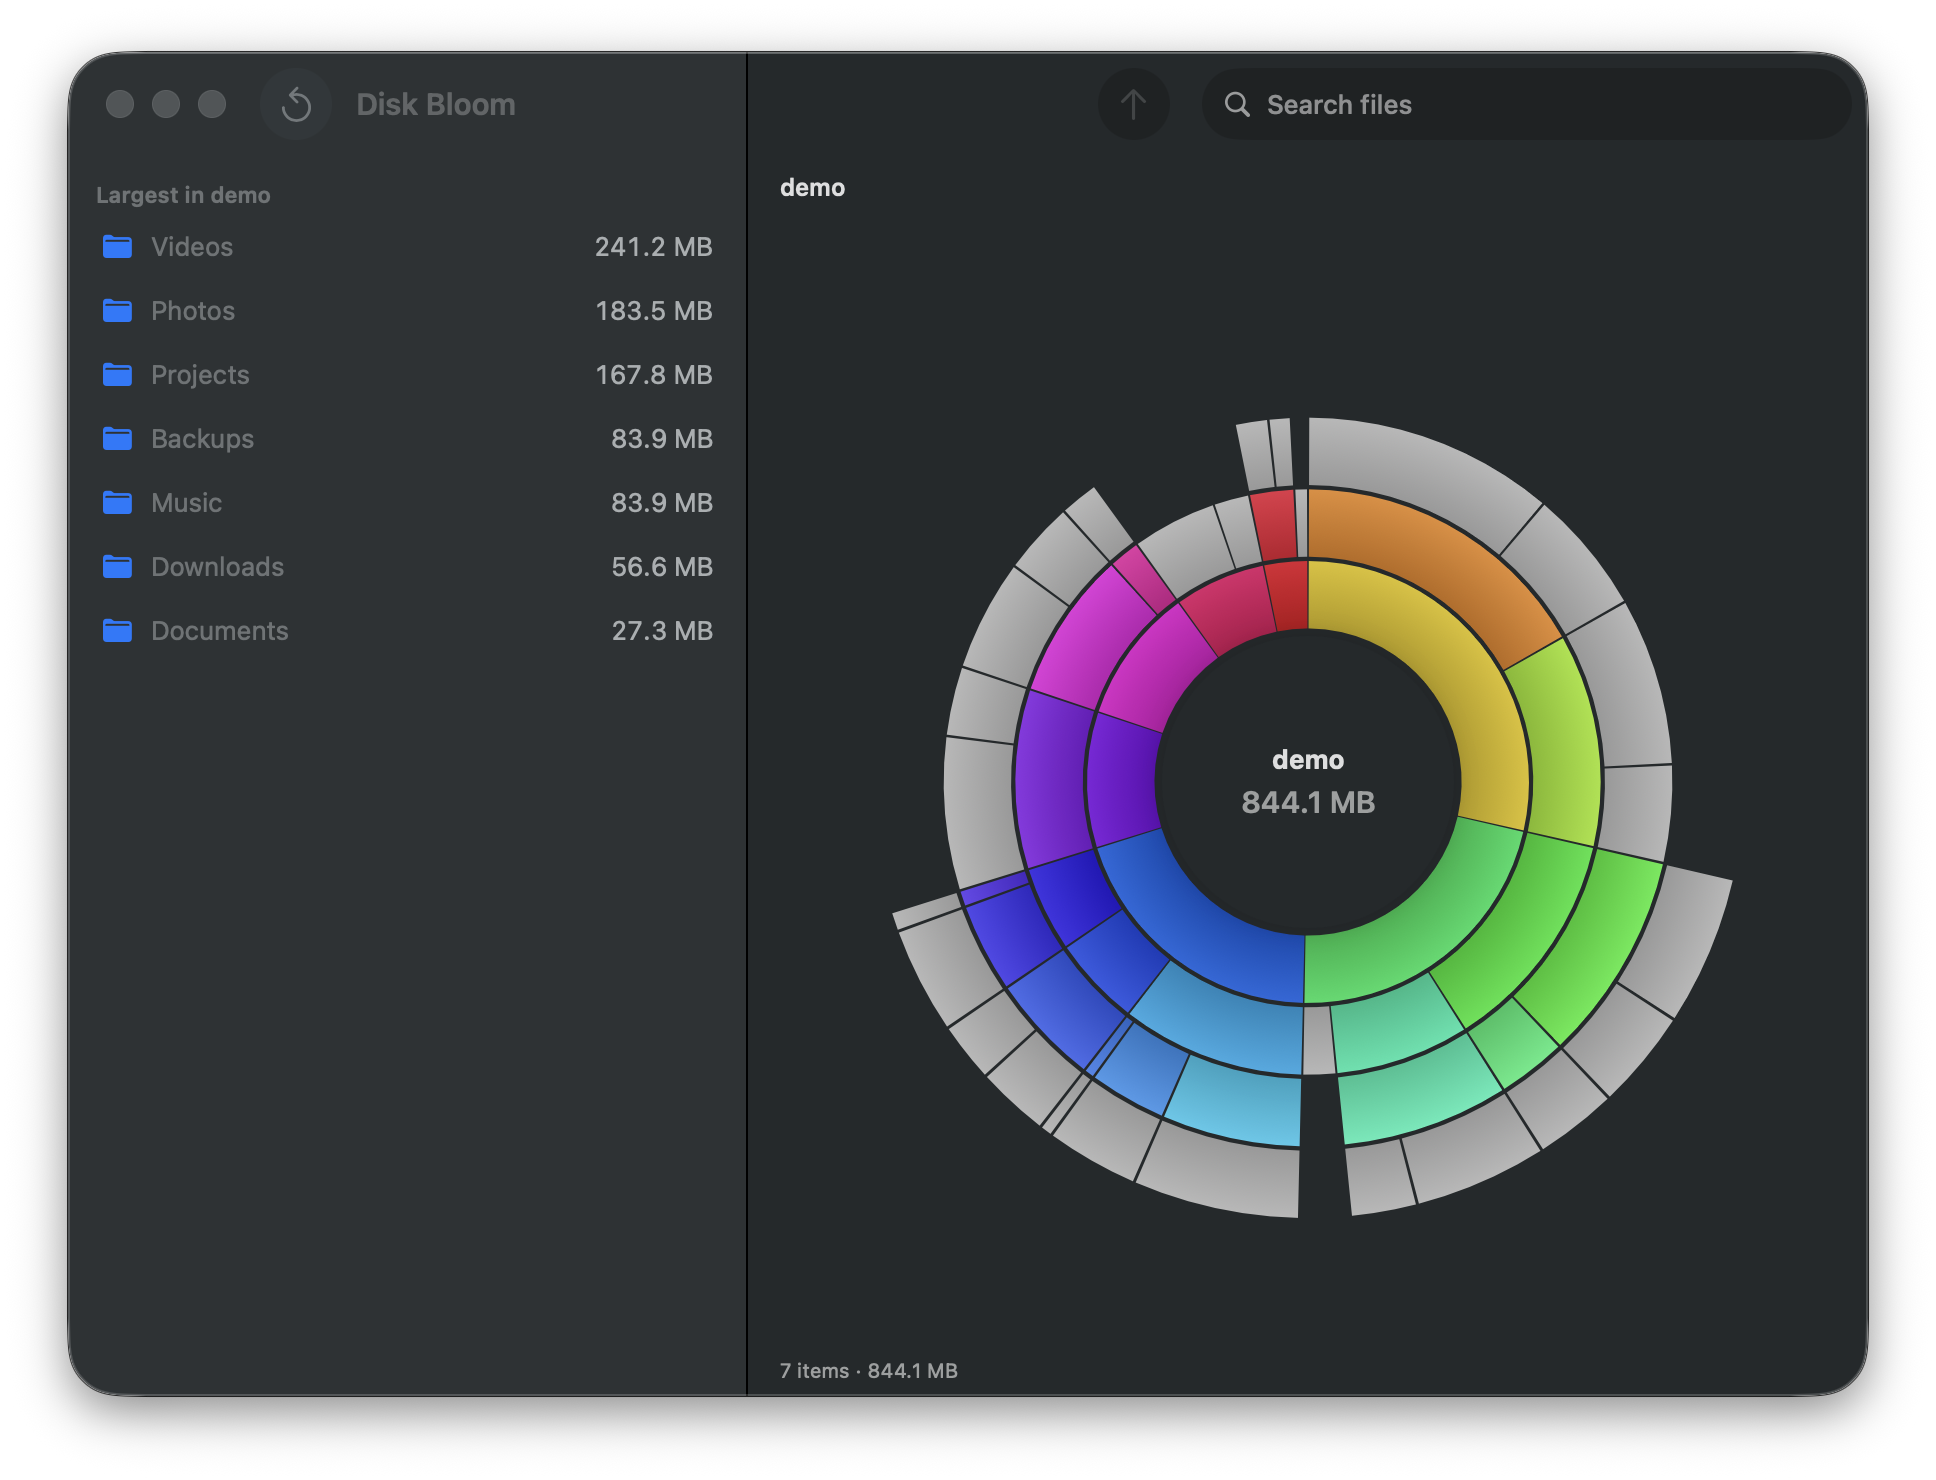
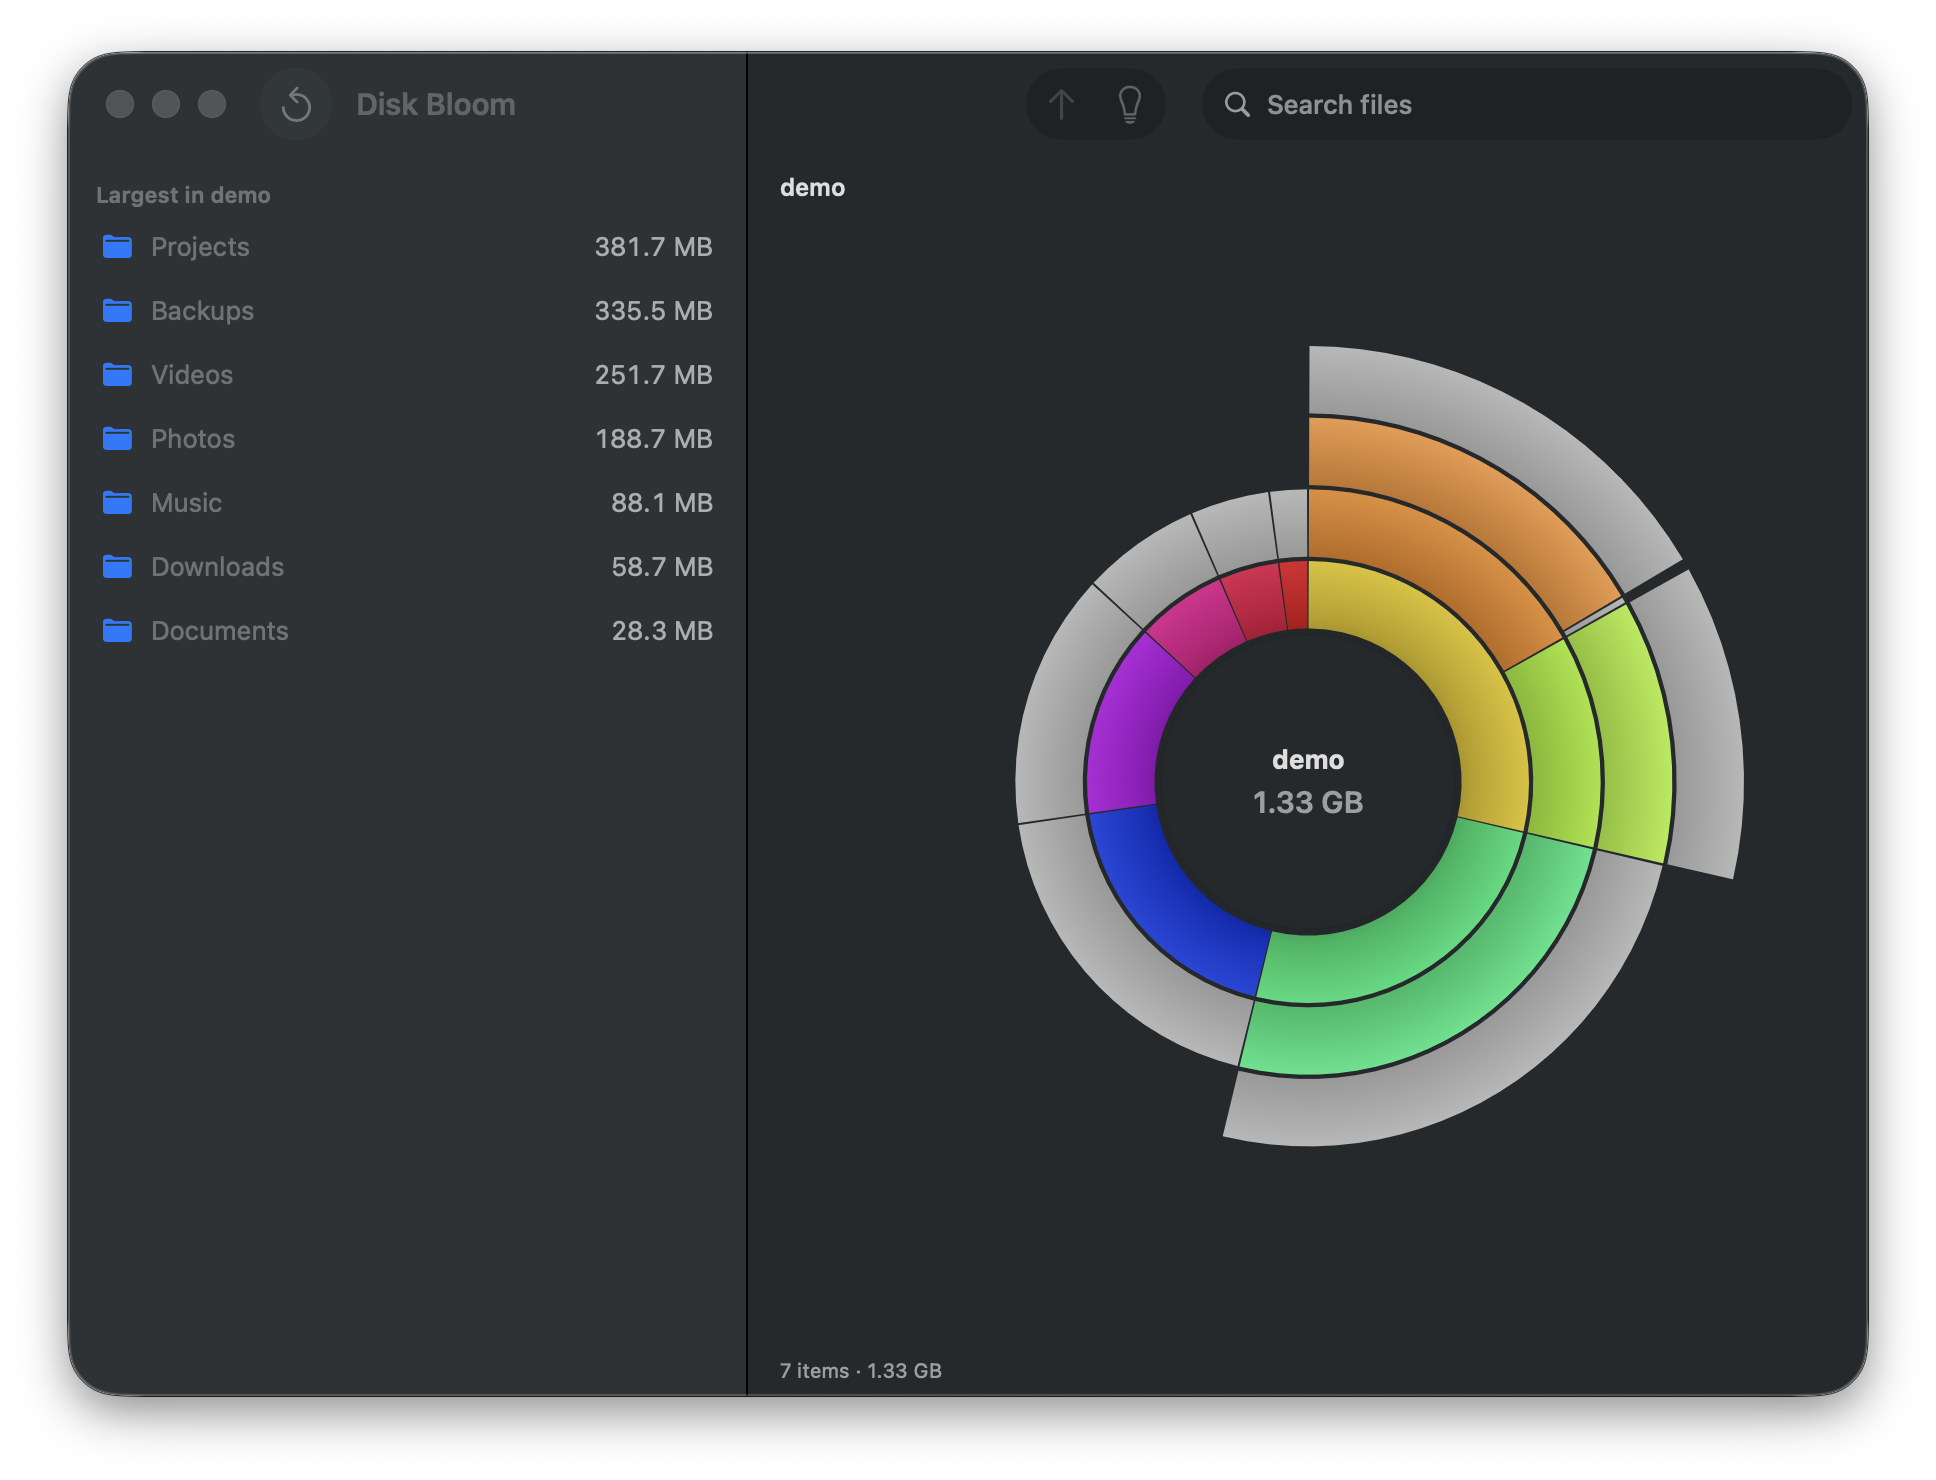
Add screenshots to the README
Both shot against a synthetic tree at a neutral path, so nothing on
screen belongs to a real machine. EXIF and XMP chunks stripped.

The Reclaim panel also gets 80pt more height, so its three sections fit
without the last row clipping.

diff --git a/Bloom/InsightsView.swift b/Bloom/InsightsView.swift
@@ -44,7 +44,7 @@ struct InsightsView: View {
                 emptyState
             }
         }
-        .frame(width: 620, height: 520)
+        .frame(width: 620, height: 600)
     }
 
     private var header: some View {

diff --git a/README.md b/README.md
@@ -4,9 +4,13 @@ macOS disk space visualizer — a free alternative to DaisyDisk, GrandPerspectiv
 
 Pick a volume or folder, get a fast concurrent scan, then explore an interactive sunburst: hover for size/percent, click a segment to zoom in, click the center to go back up, right-click to reveal in Finder or move to Trash (never hard-deletes).
 
+![Disk Bloom scanning a folder](assets/screenshot.png)
+
 The scanner counts what's actually on disk: hardlinked files count once (du semantics), firmlinked directories aren't double-counted, symlinks are never followed, and scans stay on one volume. A whole-disk total matches `df`.
 
 ## Reclaim
+
+![The Reclaim panel](assets/reclaim.png)
 
 A size chart can tell you a folder is 74 GB. It can't tell you what that folder is or what to do about it, and for tool-owned directories "select and trash" is usually the wrong answer. The Reclaim panel (⇧⌘R) adds three things the chart can't show on its own:
 
